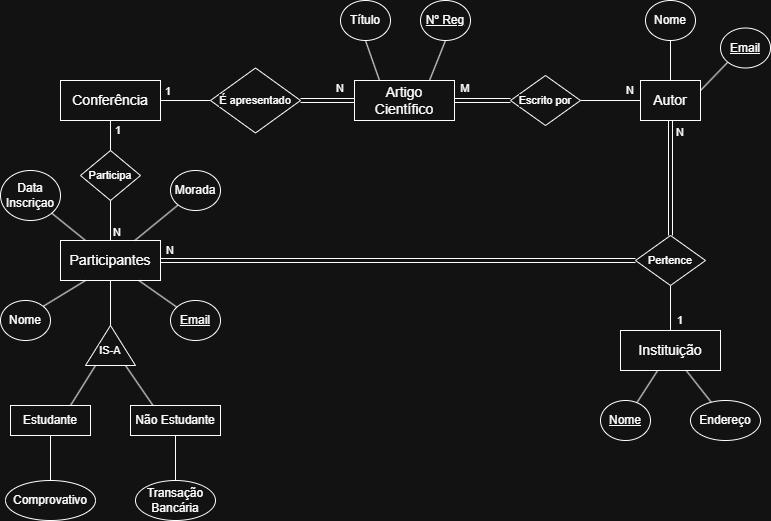
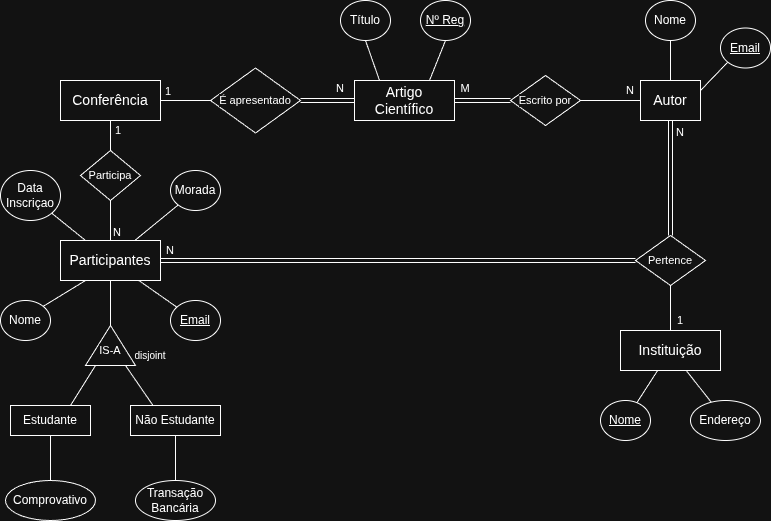
SSE e BD update

diff --git a/2 ano/2 Semestre/SSE/P/Aula 1/AulaP01.m b/2 ano/2 Semestre/SSE/P/Aula 1/AulaP01.m
@@ -134,3 +134,163 @@ ylabel('Amplitude');
 grid on;
 
 
+% Exercicio 3
+
+teta = -2*pi:pi/10:2*pi;
+
+% ./ para divisão elemento a elemento
+y = sin(teta)./teta;
+% Para evitar o "buraco" no gráfico onde teta == 0 (pois limite de sin(x)/x é 1)
+y(teta == 0) = 1;
+
+plot(teta, y)
+title('Gráfico de sin(\theta) / \theta');
+xlabel('\theta');
+ylabel('y');
+
+
+% Exercicio 4
+
+x = linspace(0, 5, 100);
+y = exp(x);
+plot(x, y)
+title('Gráfico de exp(x)');
+xlabel('x');
+ylabel('exp(x)');
+
+
+% Exercicio 5
+
+x = linspace(0, 5, 100);
+y = exp(-x);
+plot(x, y)
+title('Gráfico de exp(-x)');
+xlabel('x');
+ylabel('exp(-x)');
+
+
+% Exercicio 6
+
+x = 1:5;
+y = log(x);
+plot(x, y)
+
+% Exercicio 7
+
+% transpor em vetor coluna para a matriz X ficar certa
+x = linspace(1, 2, 100)';
+
+X = [exp(x), log(x)];
+
+plot(X)
+
+
+
+%%%%%%%%%%%%%%%%%%%%%%%%%%%%%%%%%%%%%%%%%%%%
+
+% Gráficos de variáveis complexas
+
+w = 0 : pi/10 : 2*pi;
+y = exp(1i * w);
+
+% Extrair as partes real e imaginária
+parte_real = real(y);
+parte_imag = imag(y);
+
+plot(w, parte_real, '-o', 'DisplayName', 'Parte Real (cos)');
+hold on;
+plot(w, parte_imag, '-s', 'DisplayName', 'Parte Imaginária (sin)');
+hold off;
+
+% Ajustes estéticos
+grid on;
+xlabel('\omega (radianos)');
+ylabel('Amplitude');
+title('Partes Real e Imaginária de e^{j\omega}');
+legend('show');
+
+%%%%%%%%%%%%%%%%%%%%%%%%%%%%%%%%%%%%%%%%%%%%
+
+% Programação em Octave
+
+% Exercicio 1
+
+vetor = rand(1, 1000);
+y = [];
+
+for i = 1:1000
+    if vetor(i) < 0.3
+        y = [y, vetor(i)];
+    endif
+endfor
+
+disp(y);
+
+
+% Exercicio 2
+
+x = linspace(0, 2, 100)';
+
+A = zeros(100, 10);
+
+for n = 1:10
+    alpha = 1 + 0.1 * n;
+    A(:, n) = exp(alpha * x);  % Guarda o resultado na coluna 'n' da matriz A
+endfor
+
+plot(A)     % Desenha as 10 colunas simultaneamente
+figure;     % Abre uma nova janela para o próximo gráfico
+mesh(A)     % Visualização 3D da matriz
+
+% Exercicio 3
+
+x = linspace(0, 2*pi, 100);
+
+y_real = sin(x);
+
+% aproximação com os primeiros 5 termos da série
+% elemento a elemento
+termo1 = x;
+termo2 = -(x.^3) / factorial(3);
+termo3 = (x.^5) / factorial(5);
+termo4 = -(x.^7) / factorial(7);
+termo5 = (x.^9) / factorial(9);
+
+y_approx = termo1 + termo2 + termo3 + termo4 + termo5;
+
+plot(x, y_real, 'b-', 'LineWidth', 2);
+hold on;
+plot(x, y_approx, 'r--', 'LineWidth', 2);
+
+grid on;
+title('Comparação: sin(x) vs Série de Taylor (5 termos)');
+xlabel('x [0, 2\pi]');
+ylabel('y');
+legend('sin(x) Real', 'Série de Taylor (5 termos)');
+
+ylim([-2, 2]);
+
+
+% Exercicio 4
+
+A = zeros(10, 10);
+
+v = (1:10)'; % transpor para coluna
+
+for i = 1:10
+  A(:,i) = v;
+endfor
+
+A
+
+
+%%%%%%%%%%%%%%%%%%%%%%%%%%%%%%%%%%%%%%%%%%%%
+
+% Scripts e funções
+
+function fahrenheit = celsius_to_fahrenheit(celsius)
+  % This function converts Celsius to Fahrenheit
+  fahrenheit = celsius * (9/5) + 32;
+end
+
+celsius_to_fahrenheit(20)

diff --git a/2 ano/2 Semestre/SSE/P/Aula 2/graf_casa.m b/2 ano/2 Semestre/SSE/P/Aula 2/graf_casa.m
@@ -1,0 +1,12 @@
+close
+
+casa = [-1+i -1-i 1-i 1+i -1+i 0+2i 1+i]
+
+plot(casa, "r-")
+axis("equal");
+axis([-2 2 -2 3]);
+ax = gca();
+set(ax, 'xaxislocation', 'origin', 'yaxislocation', 'origin');
+box off
+hold on
+plot(casa.*exp(j*(pi/4)), "b-")

diff --git a/2 ano/2 Semestre/SSE/P/Aula 2/desenha.m b/2 ano/2 Semestre/SSE/P/Aula 2/desenha.m
@@ -1,0 +1,8 @@
+# Demo de operações com complexos
+close
+
+casa = [ -1+i -1-i 1-i 1+i -1+i 0+2i 1+i];
+
+plot(casa)
+axis('equal')
+axis([-2 2 -2 3])
